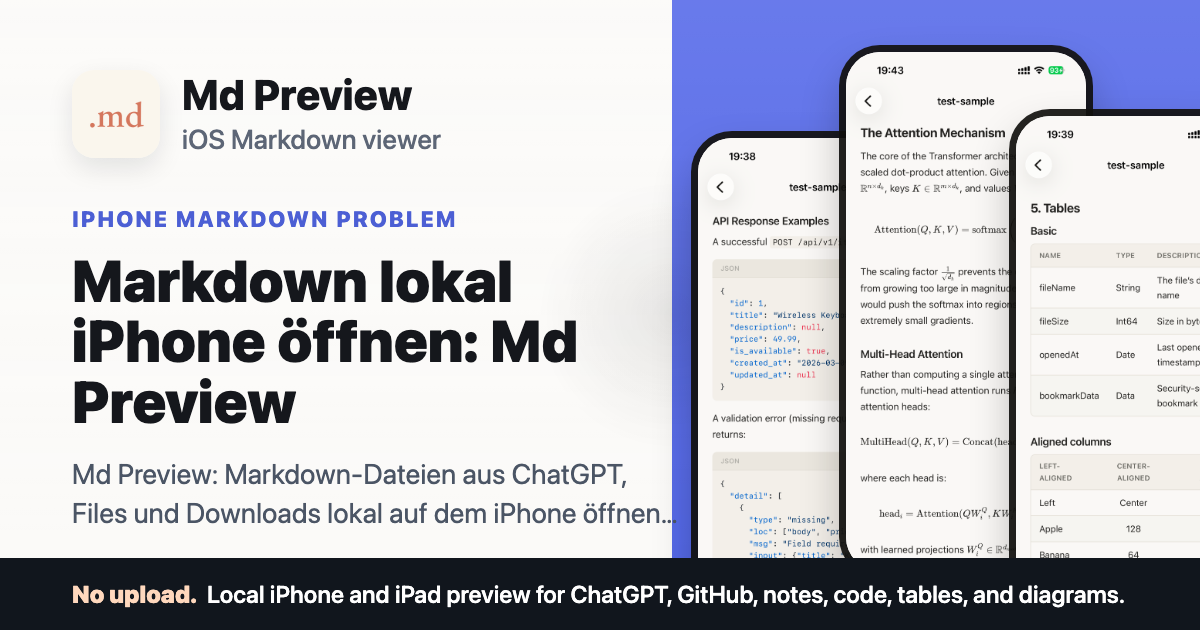
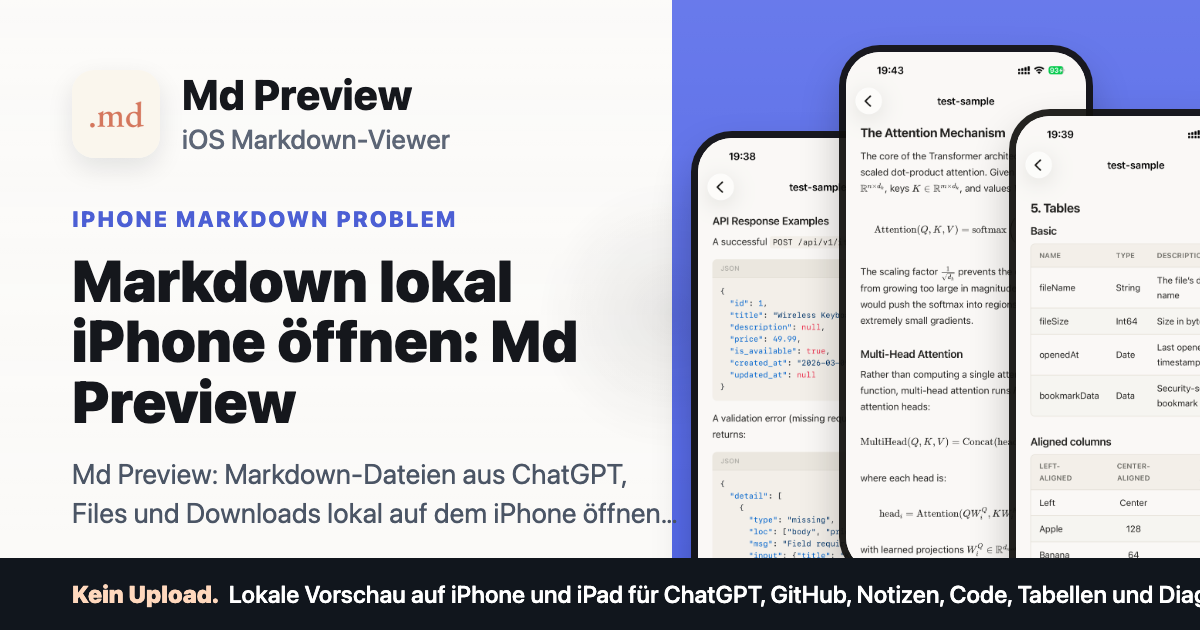
Expand localized social cards

Changed region(s): [[0.0617, 0.9048, 1.0, 0.9651], [0.2775, 0.2111, 0.37, 0.2413]]

diff --git a/ko/articles/quick-look-cant-preview-markdown-on-iphone/index.html b/ko/articles/quick-look-cant-preview-markdown-on-iphone/index.html
@@ -68,19 +68,19 @@
     <meta property="article:modified_time" content="2026-07-03T00:00:00+00:00">
     <meta property="article:author" content="CyberGame Limited">
     <meta property="article:section" content="Markdown viewer for iOS">
-    <meta property="og:image" content="https://markdown.cybergame.ai/assets/social-card.png">
-    <meta property="og:image:secure_url" content="https://markdown.cybergame.ai/assets/social-card.png">
+    <meta property="og:image" content="https://markdown.cybergame.ai/assets/social/ko-article-quick-look-cant-preview-markdown-on-iphone.png">
+    <meta property="og:image:secure_url" content="https://markdown.cybergame.ai/assets/social/ko-article-quick-look-cant-preview-markdown-on-iphone.png">
     <meta property="og:image:type" content="image/png">
     <meta property="og:image:width" content="1200">
     <meta property="og:image:height" content="630">
-    <meta property="og:image:alt" content="Md Preview 소셜 미리보기, App Store 스크린샷 포함">
+    <meta property="og:image:alt" content="Quick Look Markdown 미리보기 안 됨 | Md Preview - Md Preview">
     <meta name="twitter:card" content="summary_large_image">
     <meta name="twitter:title" content="Quick Look Markdown 미리보기 안 됨 | Md Preview">
     <meta name="twitter:description" content="Quick Look에서 열리지 않는 Markdown 파일: iPhone과 iPad에서 열고 Md Preview로 업로드 없이 로컬 미리보기하세요. Files와 공유 시트에서 바로 확인할 수 있습니다. 광고 없음.">
-    <meta name="twitter:image" content="https://markdown.cybergame.ai/assets/social-card.png">
+    <meta name="twitter:image" content="https://markdown.cybergame.ai/assets/social/ko-article-quick-look-cant-preview-markdown-on-iphone.png">
     <meta name="twitter:image:width" content="1200">
     <meta name="twitter:image:height" content="630">
-    <meta name="twitter:image:alt" content="Md Preview 소셜 미리보기, App Store 스크린샷 포함">
+    <meta name="twitter:image:alt" content="Quick Look Markdown 미리보기 안 됨 | Md Preview - Md Preview">
     <meta property="al:ios:app_store_id" content="6760341080">
     <meta property="al:ios:url" content="itms-apps://itunes.apple.com/app/id6760341080">
     <meta property="al:ios:app_name" content="Md Preview">

diff --git a/ko/articles/files-app-cant-preview-markdown-on-iphone/index.html b/ko/articles/files-app-cant-preview-markdown-on-iphone/index.html
@@ -68,19 +68,19 @@
     <meta property="article:modified_time" content="2026-07-03T00:00:00+00:00">
     <meta property="article:author" content="CyberGame Limited">
     <meta property="article:section" content="Markdown viewer for iOS">
-    <meta property="og:image" content="https://markdown.cybergame.ai/assets/social-card.png">
-    <meta property="og:image:secure_url" content="https://markdown.cybergame.ai/assets/social-card.png">
+    <meta property="og:image" content="https://markdown.cybergame.ai/assets/social/ko-article-files-app-cant-preview-markdown-on-iphone.png">
+    <meta property="og:image:secure_url" content="https://markdown.cybergame.ai/assets/social/ko-article-files-app-cant-preview-markdown-on-iphone.png">
     <meta property="og:image:type" content="image/png">
     <meta property="og:image:width" content="1200">
     <meta property="og:image:height" content="630">
-    <meta property="og:image:alt" content="Md Preview 소셜 미리보기, App Store 스크린샷 포함">
+    <meta property="og:image:alt" content="Files Markdown 미리보기 안 됨 | Md Preview - Md Preview">
     <meta name="twitter:card" content="summary_large_image">
     <meta name="twitter:title" content="Files Markdown 미리보기 안 됨 | Md Preview">
     <meta name="twitter:description" content="Files에서 미리보기 안 되는 Markdown 파일: iPhone과 iPad에서 열고 Md Preview로 업로드 없이 로컬 미리보기하세요. Files와 공유 시트에서 바로 확인할 수 있습니다. 광고 없음.">
-    <meta name="twitter:image" content="https://markdown.cybergame.ai/assets/social-card.png">
+    <meta name="twitter:image" content="https://markdown.cybergame.ai/assets/social/ko-article-files-app-cant-preview-markdown-on-iphone.png">
     <meta name="twitter:image:width" content="1200">
     <meta name="twitter:image:height" content="630">
-    <meta name="twitter:image:alt" content="Md Preview 소셜 미리보기, App Store 스크린샷 포함">
+    <meta name="twitter:image:alt" content="Files Markdown 미리보기 안 됨 | Md Preview - Md Preview">
     <meta property="al:ios:app_store_id" content="6760341080">
     <meta property="al:ios:url" content="itms-apps://itunes.apple.com/app/id6760341080">
     <meta property="al:ios:app_name" content="Md Preview">

diff --git a/ko/articles/open-ai-generated-markdown-file-on-iphone/index.html b/ko/articles/open-ai-generated-markdown-file-on-iphone/index.html
@@ -68,19 +68,19 @@
     <meta property="article:modified_time" content="2026-07-03T00:00:00+00:00">
     <meta property="article:author" content="CyberGame Limited">
     <meta property="article:section" content="Markdown viewer for iOS">
-    <meta property="og:image" content="https://markdown.cybergame.ai/assets/social-card.png">
-    <meta property="og:image:secure_url" content="https://markdown.cybergame.ai/assets/social-card.png">
+    <meta property="og:image" content="https://markdown.cybergame.ai/assets/social/ko-article-open-ai-generated-markdown-file-on-iphone.png">
+    <meta property="og:image:secure_url" content="https://markdown.cybergame.ai/assets/social/ko-article-open-ai-generated-markdown-file-on-iphone.png">
     <meta property="og:image:type" content="image/png">
     <meta property="og:image:width" content="1200">
     <meta property="og:image:height" content="630">
-    <meta property="og:image:alt" content="Md Preview 소셜 미리보기, App Store 스크린샷 포함">
+    <meta property="og:image:alt" content="iPhone에서 AI 생성 Markdown 열기 | Md Preview - Md Preview">
     <meta name="twitter:card" content="summary_large_image">
     <meta name="twitter:title" content="iPhone에서 AI 생성 Markdown 열기 | Md Preview">
     <meta name="twitter:description" content="AI 생성 Markdown 파일: iPhone과 iPad에서 열고 Md Preview로 업로드 없이 로컬 미리보기하세요. Files와 공유 시트에서 바로 확인할 수 있습니다. 광고 없음.">
-    <meta name="twitter:image" content="https://markdown.cybergame.ai/assets/social-card.png">
+    <meta name="twitter:image" content="https://markdown.cybergame.ai/assets/social/ko-article-open-ai-generated-markdown-file-on-iphone.png">
     <meta name="twitter:image:width" content="1200">
     <meta name="twitter:image:height" content="630">
-    <meta name="twitter:image:alt" content="Md Preview 소셜 미리보기, App Store 스크린샷 포함">
+    <meta name="twitter:image:alt" content="iPhone에서 AI 생성 Markdown 열기 | Md Preview - Md Preview">
     <meta property="al:ios:app_store_id" content="6760341080">
     <meta property="al:ios:url" content="itms-apps://itunes.apple.com/app/id6760341080">
     <meta property="al:ios:app_name" content="Md Preview">

diff --git a/ko/articles/best-chatgpt-claude-markdown-viewer-iphone/index.html b/ko/articles/best-chatgpt-claude-markdown-viewer-iphone/index.html
@@ -68,19 +68,19 @@
     <meta property="article:modified_time" content="2026-07-03T00:00:00+00:00">
     <meta property="article:author" content="CyberGame Limited">
     <meta property="article:section" content="Markdown viewer for iOS">
-    <meta property="og:image" content="https://markdown.cybergame.ai/assets/social-card.png">
-    <meta property="og:image:secure_url" content="https://markdown.cybergame.ai/assets/social-card.png">
+    <meta property="og:image" content="https://markdown.cybergame.ai/assets/social/ko-article-best-chatgpt-claude-markdown-viewer-iphone.png">
+    <meta property="og:image:secure_url" content="https://markdown.cybergame.ai/assets/social/ko-article-best-chatgpt-claude-markdown-viewer-iphone.png">
     <meta property="og:image:type" content="image/png">
     <meta property="og:image:width" content="1200">
     <meta property="og:image:height" content="630">
-    <meta property="og:image:alt" content="Md Preview 소셜 미리보기, App Store 스크린샷 포함">
+    <meta property="og:image:alt" content="ChatGPT/Claude Markdown 뷰어 iPhone - Md Preview">
     <meta name="twitter:card" content="summary_large_image">
     <meta name="twitter:title" content="ChatGPT/Claude Markdown 뷰어 iPhone">
     <meta name="twitter:description" content="ChatGPT/Claude용 Markdown 뷰어 비교: iPhone과 iPad에서 열고 Md Preview로 업로드 없이 로컬 미리보기하세요. Files와 공유 시트에서 바로 확인할 수 있습니다. 광고 없음.">
-    <meta name="twitter:image" content="https://markdown.cybergame.ai/assets/social-card.png">
+    <meta name="twitter:image" content="https://markdown.cybergame.ai/assets/social/ko-article-best-chatgpt-claude-markdown-viewer-iphone.png">
     <meta name="twitter:image:width" content="1200">
     <meta name="twitter:image:height" content="630">
-    <meta name="twitter:image:alt" content="Md Preview 소셜 미리보기, App Store 스크린샷 포함">
+    <meta name="twitter:image:alt" content="ChatGPT/Claude Markdown 뷰어 iPhone - Md Preview">
     <meta property="al:ios:app_store_id" content="6760341080">
     <meta property="al:ios:url" content="itms-apps://itunes.apple.com/app/id6760341080">
     <meta property="al:ios:app_name" content="Md Preview">

diff --git a/ko/articles/open-chatgpt-markdown-file-on-iphone/index.html b/ko/articles/open-chatgpt-markdown-file-on-iphone/index.html
@@ -68,19 +68,19 @@
     <meta property="article:modified_time" content="2026-07-03T00:00:00+00:00">
     <meta property="article:author" content="CyberGame Limited">
     <meta property="article:section" content="Markdown viewer for iOS">
-    <meta property="og:image" content="https://markdown.cybergame.ai/assets/social-card.png">
-    <meta property="og:image:secure_url" content="https://markdown.cybergame.ai/assets/social-card.png">
+    <meta property="og:image" content="https://markdown.cybergame.ai/assets/social/ko-article-open-chatgpt-markdown-file-on-iphone.png">
+    <meta property="og:image:secure_url" content="https://markdown.cybergame.ai/assets/social/ko-article-open-chatgpt-markdown-file-on-iphone.png">
     <meta property="og:image:type" content="image/png">
     <meta property="og:image:width" content="1200">
     <meta property="og:image:height" content="630">
-    <meta property="og:image:alt" content="Md Preview 소셜 미리보기, App Store 스크린샷 포함">
+    <meta property="og:image:alt" content="iPhone에서 ChatGPT Markdown 열기 | Md Preview - Md Preview">
     <meta name="twitter:card" content="summary_large_image">
     <meta name="twitter:title" content="iPhone에서 ChatGPT Markdown 열기 | Md Preview">
     <meta name="twitter:description" content="ChatGPT: iPhone과 iPad에서 열고 Md Preview로 업로드 없이 로컬 미리보기하세요. Files와 공유 시트에서 바로 확인할 수 있습니다. 광고 없음.">
-    <meta name="twitter:image" content="https://markdown.cybergame.ai/assets/social-card.png">
+    <meta name="twitter:image" content="https://markdown.cybergame.ai/assets/social/ko-article-open-chatgpt-markdown-file-on-iphone.png">
     <meta name="twitter:image:width" content="1200">
     <meta name="twitter:image:height" content="630">
-    <meta name="twitter:image:alt" content="Md Preview 소셜 미리보기, App Store 스크린샷 포함">
+    <meta name="twitter:image:alt" content="iPhone에서 ChatGPT Markdown 열기 | Md Preview - Md Preview">
     <meta property="al:ios:app_store_id" content="6760341080">
     <meta property="al:ios:url" content="itms-apps://itunes.apple.com/app/id6760341080">
     <meta property="al:ios:app_name" content="Md Preview">

diff --git a/es/articles/open-chatgpt-markdown-file-on-iphone/index.html b/es/articles/open-chatgpt-markdown-file-on-iphone/index.html
@@ -68,19 +68,19 @@
     <meta property="article:modified_time" content="2026-07-03T00:00:00+00:00">
     <meta property="article:author" content="CyberGame Limited">
     <meta property="article:section" content="Markdown viewer for iOS">
-    <meta property="og:image" content="https://markdown.cybergame.ai/assets/social-card.png">
-    <meta property="og:image:secure_url" content="https://markdown.cybergame.ai/assets/social-card.png">
+    <meta property="og:image" content="https://markdown.cybergame.ai/assets/social/es-article-open-chatgpt-markdown-file-on-iphone.png">
+    <meta property="og:image:secure_url" content="https://markdown.cybergame.ai/assets/social/es-article-open-chatgpt-markdown-file-on-iphone.png">
     <meta property="og:image:type" content="image/png">
     <meta property="og:image:width" content="1200">
     <meta property="og:image:height" content="630">
-    <meta property="og:image:alt" content="Vista previa social de Md Preview con capturas de App Store">
+    <meta property="og:image:alt" content="Abrir Markdown de ChatGPT y Claude en iPhone | Md Preview - Md Preview">
     <meta name="twitter:card" content="summary_large_image">
     <meta name="twitter:title" content="Abrir Markdown de ChatGPT y Claude en iPhone | Md Preview">
     <meta name="twitter:description" content="Abre archivos Markdown de ChatGPT, Claude y Gemini en iPhone o iPad con un visor privado para .md, código, matemáticas y Mermaid. Sin anuncios.">
-    <meta name="twitter:image" content="https://markdown.cybergame.ai/assets/social-card.png">
+    <meta name="twitter:image" content="https://markdown.cybergame.ai/assets/social/es-article-open-chatgpt-markdown-file-on-iphone.png">
     <meta name="twitter:image:width" content="1200">
     <meta name="twitter:image:height" content="630">
-    <meta name="twitter:image:alt" content="Vista previa social de Md Preview con capturas de App Store">
+    <meta name="twitter:image:alt" content="Abrir Markdown de ChatGPT y Claude en iPhone | Md Preview - Md Preview">
     <meta property="al:ios:app_store_id" content="6760341080">
     <meta property="al:ios:url" content="itms-apps://itunes.apple.com/app/id6760341080">
     <meta property="al:ios:app_name" content="Md Preview">

diff --git a/es/articles/quick-look-cant-preview-markdown-on-iphone/index.html b/es/articles/quick-look-cant-preview-markdown-on-iphone/index.html
@@ -68,19 +68,19 @@
     <meta property="article:modified_time" content="2026-07-03T00:00:00+00:00">
     <meta property="article:author" content="CyberGame Limited">
     <meta property="article:section" content="Markdown viewer for iOS">
-    <meta property="og:image" content="https://markdown.cybergame.ai/assets/social-card.png">
-    <meta property="og:image:secure_url" content="https://markdown.cybergame.ai/assets/social-card.png">
+    <meta property="og:image" content="https://markdown.cybergame.ai/assets/social/es-article-quick-look-cant-preview-markdown-on-iphone.png">
+    <meta property="og:image:secure_url" content="https://markdown.cybergame.ai/assets/social/es-article-quick-look-cant-preview-markdown-on-iphone.png">
     <meta property="og:image:type" content="image/png">
     <meta property="og:image:width" content="1200">
     <meta property="og:image:height" content="630">
-    <meta property="og:image:alt" content="Vista previa social de Md Preview con capturas de App Store">
+    <meta property="og:image:alt" content="Abrir archivos Markdown de Quick Look en iPhone | Md Preview - Md Preview">
     <meta name="twitter:card" content="summary_large_image">
     <meta name="twitter:title" content="Abrir archivos Markdown de Quick Look en iPhone | Md Preview">
     <meta name="twitter:description" content="Abre archivos Markdown de Quick Look en iPhone o iPad. Md Preview previsualiza localmente. Sin anuncios.">
-    <meta name="twitter:image" content="https://markdown.cybergame.ai/assets/social-card.png">
+    <meta name="twitter:image" content="https://markdown.cybergame.ai/assets/social/es-article-quick-look-cant-preview-markdown-on-iphone.png">
     <meta name="twitter:image:width" content="1200">
     <meta name="twitter:image:height" content="630">
-    <meta name="twitter:image:alt" content="Vista previa social de Md Preview con capturas de App Store">
+    <meta name="twitter:image:alt" content="Abrir archivos Markdown de Quick Look en iPhone | Md Preview - Md Preview">
     <meta property="al:ios:app_store_id" content="6760341080">
     <meta property="al:ios:url" content="itms-apps://itunes.apple.com/app/id6760341080">
     <meta property="al:ios:app_name" content="Md Preview">

diff --git a/de/articles/quick-look-cant-preview-markdown-on-iphone/index.html b/de/articles/quick-look-cant-preview-markdown-on-iphone/index.html
@@ -68,19 +68,19 @@
     <meta property="article:modified_time" content="2026-07-03T00:00:00+00:00">
     <meta property="article:author" content="CyberGame Limited">
     <meta property="article:section" content="Markdown viewer for iOS">
-    <meta property="og:image" content="https://markdown.cybergame.ai/assets/social-card.png">
-    <meta property="og:image:secure_url" content="https://markdown.cybergame.ai/assets/social-card.png">
+    <meta property="og:image" content="https://markdown.cybergame.ai/assets/social/de-article-quick-look-cant-preview-markdown-on-iphone.png">
+    <meta property="og:image:secure_url" content="https://markdown.cybergame.ai/assets/social/de-article-quick-look-cant-preview-markdown-on-iphone.png">
     <meta property="og:image:type" content="image/png">
     <meta property="og:image:width" content="1200">
     <meta property="og:image:height" content="630">
-    <meta property="og:image:alt" content="Social Preview von Md Preview mit App Store-Screenshots">
+    <meta property="og:image:alt" content="Quick Look Markdown-Dateien auf iPhone öffnen | Md Preview - Md Preview">
     <meta name="twitter:card" content="summary_large_image">
     <meta name="twitter:title" content="Quick Look Markdown-Dateien auf iPhone öffnen | Md Preview">
     <meta name="twitter:description" content="Quick Look zeigt Markdown nicht richtig? Md Preview rendert .md-Dateien lokal auf dem iPhone. Ohne Werbung.">
-    <meta name="twitter:image" content="https://markdown.cybergame.ai/assets/social-card.png">
+    <meta name="twitter:image" content="https://markdown.cybergame.ai/assets/social/de-article-quick-look-cant-preview-markdown-on-iphone.png">
     <meta name="twitter:image:width" content="1200">
     <meta name="twitter:image:height" content="630">
-    <meta name="twitter:image:alt" content="Social Preview von Md Preview mit App Store-Screenshots">
+    <meta name="twitter:image:alt" content="Quick Look Markdown-Dateien auf iPhone öffnen | Md Preview - Md Preview">
     <meta property="al:ios:app_store_id" content="6760341080">
     <meta property="al:ios:url" content="itms-apps://itunes.apple.com/app/id6760341080">
     <meta property="al:ios:app_name" content="Md Preview">

diff --git a/es/articles/best-chatgpt-claude-markdown-viewer-iphone/index.html b/es/articles/best-chatgpt-claude-markdown-viewer-iphone/index.html
@@ -68,19 +68,19 @@
     <meta property="article:modified_time" content="2026-07-03T00:00:00+00:00">
     <meta property="article:author" content="CyberGame Limited">
     <meta property="article:section" content="Markdown viewer for iOS">
-    <meta property="og:image" content="https://markdown.cybergame.ai/assets/social-card.png">
-    <meta property="og:image:secure_url" content="https://markdown.cybergame.ai/assets/social-card.png">
+    <meta property="og:image" content="https://markdown.cybergame.ai/assets/social/es-article-best-chatgpt-claude-markdown-viewer-iphone.png">
+    <meta property="og:image:secure_url" content="https://markdown.cybergame.ai/assets/social/es-article-best-chatgpt-claude-markdown-viewer-iphone.png">
     <meta property="og:image:type" content="image/png">
     <meta property="og:image:width" content="1200">
     <meta property="og:image:height" content="630">
-    <meta property="og:image:alt" content="Vista previa social de Md Preview con capturas de App Store">
+    <meta property="og:image:alt" content="Visor Markdown ChatGPT/Claude en iPhone - Md Preview">
     <meta name="twitter:card" content="summary_large_image">
     <meta name="twitter:title" content="Visor Markdown ChatGPT/Claude en iPhone">
     <meta name="twitter:description" content="Md Preview: visor Markdown con vista local en iPhone para ChatGPT y Claude; renderiza código, tablas, enlaces y notas sin subir el archivo. Sin anuncios.">
-    <meta name="twitter:image" content="https://markdown.cybergame.ai/assets/social-card.png">
+    <meta name="twitter:image" content="https://markdown.cybergame.ai/assets/social/es-article-best-chatgpt-claude-markdown-viewer-iphone.png">
     <meta name="twitter:image:width" content="1200">
     <meta name="twitter:image:height" content="630">
-    <meta name="twitter:image:alt" content="Vista previa social de Md Preview con capturas de App Store">
+    <meta name="twitter:image:alt" content="Visor Markdown ChatGPT/Claude en iPhone - Md Preview">
     <meta property="al:ios:app_store_id" content="6760341080">
     <meta property="al:ios:url" content="itms-apps://itunes.apple.com/app/id6760341080">
     <meta property="al:ios:app_name" content="Md Preview">

diff --git a/de/articles/open-chatgpt-markdown-file-on-iphone/index.html b/de/articles/open-chatgpt-markdown-file-on-iphone/index.html
@@ -68,19 +68,19 @@
     <meta property="article:modified_time" content="2026-07-03T00:00:00+00:00">
     <meta property="article:author" content="CyberGame Limited">
     <meta property="article:section" content="Markdown viewer for iOS">
-    <meta property="og:image" content="https://markdown.cybergame.ai/assets/social-card.png">
-    <meta property="og:image:secure_url" content="https://markdown.cybergame.ai/assets/social-card.png">
+    <meta property="og:image" content="https://markdown.cybergame.ai/assets/social/de-article-open-chatgpt-markdown-file-on-iphone.png">
+    <meta property="og:image:secure_url" content="https://markdown.cybergame.ai/assets/social/de-article-open-chatgpt-markdown-file-on-iphone.png">
     <meta property="og:image:type" content="image/png">
     <meta property="og:image:width" content="1200">
     <meta property="og:image:height" content="630">
-    <meta property="og:image:alt" content="Social Preview von Md Preview mit App Store-Screenshots">
+    <meta property="og:image:alt" content="ChatGPT- und Claude-Markdown-Dateien auf dem iPhone öffnen - Md Preview">
     <meta name="twitter:card" content="summary_large_image">
     <meta name="twitter:title" content="ChatGPT- und Claude-Markdown-Dateien auf dem iPhone öffnen">
     <meta name="twitter:description" content="ChatGPT, Claude und Gemini: Markdown-Dateien lokal auf dem iPhone öffnen mit Md Preview, ohne Upload. Ohne Werbung.">
-    <meta name="twitter:image" content="https://markdown.cybergame.ai/assets/social-card.png">
+    <meta name="twitter:image" content="https://markdown.cybergame.ai/assets/social/de-article-open-chatgpt-markdown-file-on-iphone.png">
     <meta name="twitter:image:width" content="1200">
     <meta name="twitter:image:height" content="630">
-    <meta name="twitter:image:alt" content="Social Preview von Md Preview mit App Store-Screenshots">
+    <meta name="twitter:image:alt" content="ChatGPT- und Claude-Markdown-Dateien auf dem iPhone öffnen - Md Preview">
     <meta property="al:ios:app_store_id" content="6760341080">
     <meta property="al:ios:url" content="itms-apps://itunes.apple.com/app/id6760341080">
     <meta property="al:ios:app_name" content="Md Preview">

diff --git a/articles/files-app-cant-preview-markdown-on-iphone/index.html b/articles/files-app-cant-preview-markdown-on-iphone/index.html
@@ -68,19 +68,19 @@
     <meta property="article:modified_time" content="2026-07-03T00:00:00+00:00">
     <meta property="article:author" content="CyberGame Limited">
     <meta property="article:section" content="Markdown viewer for iOS">
-    <meta property="og:image" content="https://markdown.cybergame.ai/assets/social-card.png">
-    <meta property="og:image:secure_url" content="https://markdown.cybergame.ai/assets/social-card.png">
+    <meta property="og:image" content="https://markdown.cybergame.ai/assets/social/en-article-files-app-cant-preview-markdown-on-iphone.png">
+    <meta property="og:image:secure_url" content="https://markdown.cybergame.ai/assets/social/en-article-files-app-cant-preview-markdown-on-iphone.png">
     <meta property="og:image:type" content="image/png">
     <meta property="og:image:width" content="1200">
     <meta property="og:image:height" content="630">
-    <meta property="og:image:alt" content="Md Preview social preview with App Store screenshots">
+    <meta property="og:image:alt" content="Files Can't Preview Markdown on iPhone? Fix It | Md Preview - Md Preview">
     <meta name="twitter:card" content="summary_large_image">
     <meta name="twitter:title" content="Files Can't Preview Markdown on iPhone? Fix It | Md Preview">
     <meta name="twitter:description" content="Local Markdown preview with Md Preview: fix iPhone Files icons, raw text, or broken previews. No ads.">
-    <meta name="twitter:image" content="https://markdown.cybergame.ai/assets/social-card.png">
+    <meta name="twitter:image" content="https://markdown.cybergame.ai/assets/social/en-article-files-app-cant-preview-markdown-on-iphone.png">
     <meta name="twitter:image:width" content="1200">
     <meta name="twitter:image:height" content="630">
-    <meta name="twitter:image:alt" content="Md Preview social preview with App Store screenshots">
+    <meta name="twitter:image:alt" content="Files Can't Preview Markdown on iPhone? Fix It | Md Preview - Md Preview">
     <meta property="al:ios:app_store_id" content="6760341080">
     <meta property="al:ios:url" content="itms-apps://itunes.apple.com/app/id6760341080">
     <meta property="al:ios:app_name" content="Md Preview">

diff --git a/de/articles/files-app-cant-preview-markdown-on-iphone/index.html b/de/articles/files-app-cant-preview-markdown-on-iphone/index.html
@@ -68,19 +68,19 @@
     <meta property="article:modified_time" content="2026-07-03T00:00:00+00:00">
     <meta property="article:author" content="CyberGame Limited">
     <meta property="article:section" content="Markdown viewer for iOS">
-    <meta property="og:image" content="https://markdown.cybergame.ai/assets/social-card.png">
-    <meta property="og:image:secure_url" content="https://markdown.cybergame.ai/assets/social-card.png">
+    <meta property="og:image" content="https://markdown.cybergame.ai/assets/social/de-article-files-app-cant-preview-markdown-on-iphone.png">
+    <meta property="og:image:secure_url" content="https://markdown.cybergame.ai/assets/social/de-article-files-app-cant-preview-markdown-on-iphone.png">
     <meta property="og:image:type" content="image/png">
     <meta property="og:image:width" content="1200">
     <meta property="og:image:height" content="630">
-    <meta property="og:image:alt" content="Social Preview von Md Preview mit App Store-Screenshots">
+    <meta property="og:image:alt" content="Markdown-Dateien ohne Files-Vorschau auf iPhone öffnen - Md Preview">
     <meta name="twitter:card" content="summary_large_image">
     <meta name="twitter:title" content="Markdown-Dateien ohne Files-Vorschau auf iPhone öffnen">
     <meta name="twitter:description" content="Files zeigt keine Markdown-Vorschau? Md Preview rendert .md-Dateien lokal auf dem iPhone. Ohne Werbung.">
-    <meta name="twitter:image" content="https://markdown.cybergame.ai/assets/social-card.png">
+    <meta name="twitter:image" content="https://markdown.cybergame.ai/assets/social/de-article-files-app-cant-preview-markdown-on-iphone.png">
     <meta name="twitter:image:width" content="1200">
     <meta name="twitter:image:height" content="630">
-    <meta name="twitter:image:alt" content="Social Preview von Md Preview mit App Store-Screenshots">
+    <meta name="twitter:image:alt" content="Markdown-Dateien ohne Files-Vorschau auf iPhone öffnen - Md Preview">
     <meta property="al:ios:app_store_id" content="6760341080">
     <meta property="al:ios:url" content="itms-apps://itunes.apple.com/app/id6760341080">
     <meta property="al:ios:app_name" content="Md Preview">
